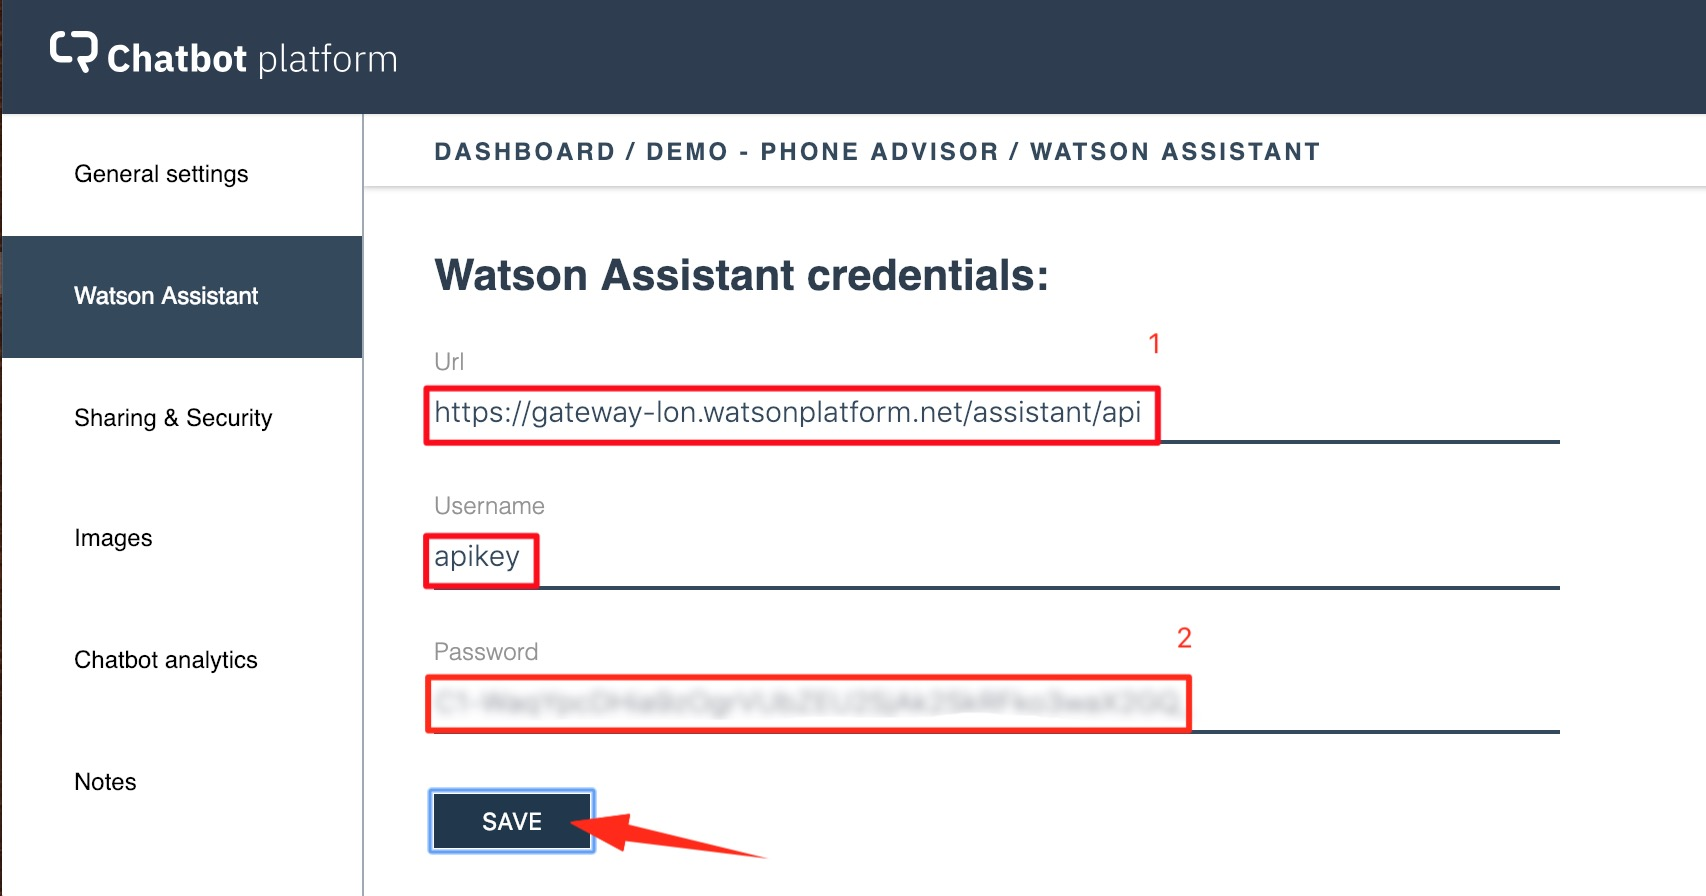
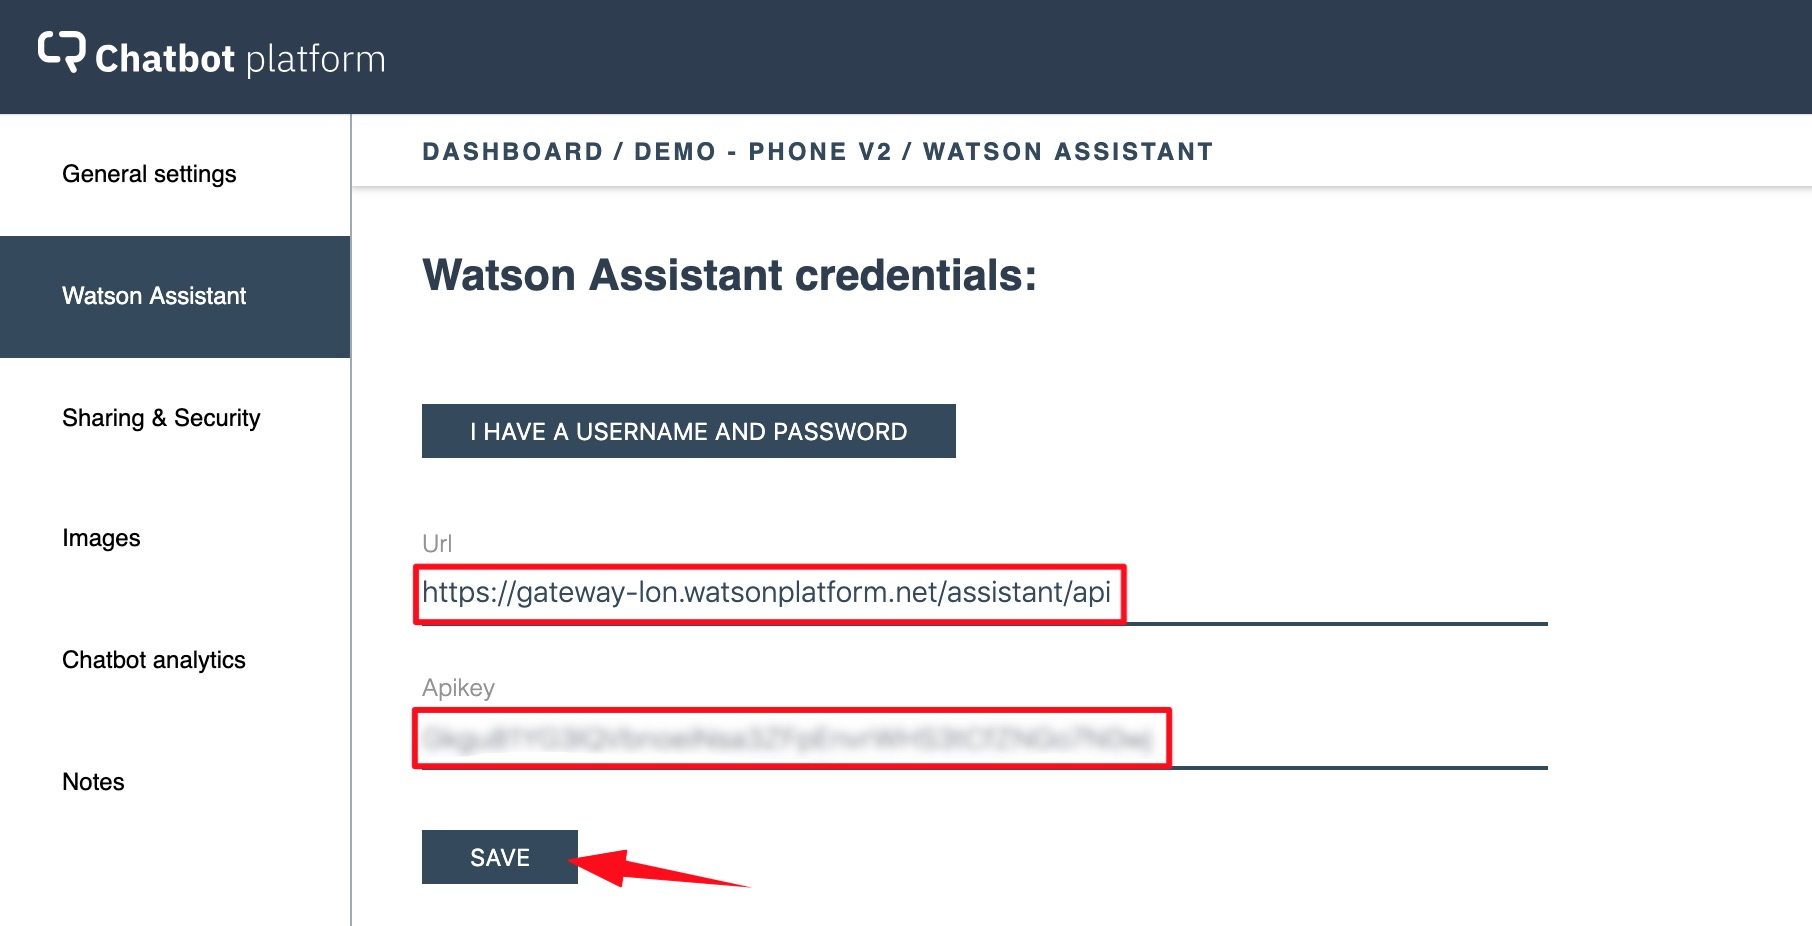
v2.1.2

diff --git a/2-Integrations/README.md b/2-Integrations/README.md
@@ -147,9 +147,9 @@ From the `Manage` screen within your _**Watson Assistant**_ service in _**IBM Cl
 ![](./images/34-view-api-details.jpg)
 
 In the _Chatbot Platform_:
-- copy and paste in the URL (1) from your _**Watson Assistant**_ credentials
-- enter the word `apikey` as the `Username`
-- copy and paste the `API Key` (2) from your _**Watson Assistant**_ credentials into the `Password` field
+- select `Watson Assistant` from the sidebar
+- copy the URL (1) from your _**Watson Assistant**_ credentials in IBM Cloud, and paste it to the `Url` field
+- copy the `API Key` (2) from your _**Watson Assistant**_ credentials into the `Apikey` field
 
 Now hit `Save`.
 
